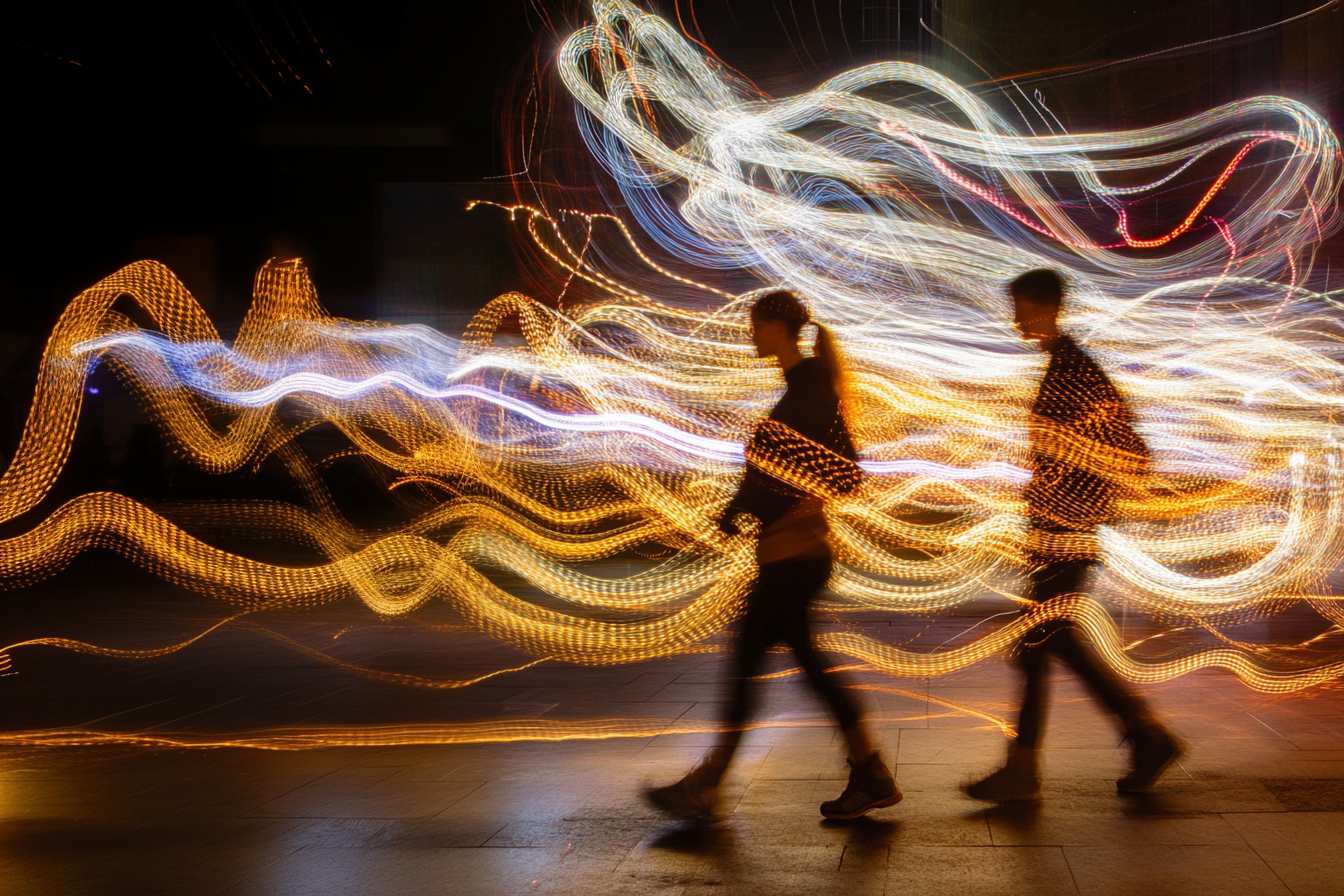
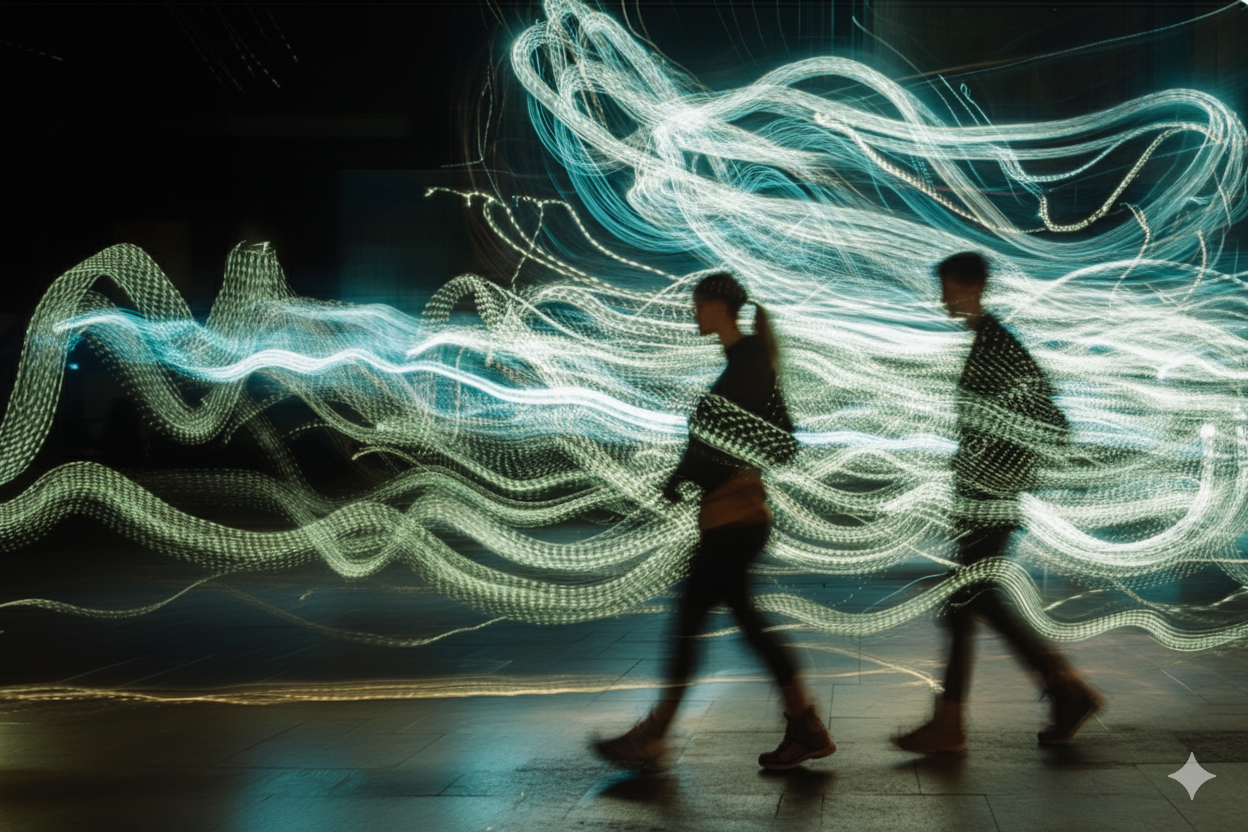
feat: add new visual impact section with second hero image
- Added new image (22849491-979d-4fb2-b7a9-9857db6dcb82.jpeg) to assets
- Created Visual Impact section between Why Do-Nation and User Types sections
- Added engaging copy about tracking giving journey
- Styled with gradient background and 3D perspective effect on hover
- Made fully responsive for mobile devices

diff --git a/src/components/WelcomePage.js b/src/components/WelcomePage.js
@@ -5,6 +5,7 @@ import styles from './WelcomePage.module.css';
 import './SharedStyles.css';
 import logoSvg from '../assets/logodark.png';
 import heroImage from '../assets/joe1980_light_trails_tracing_the_activity_of_two_young_people_b68a16e7-3e53-4c8b-b824-9edc7aa00c80_0.png';
+import impactImage from '../assets/22849491-979d-4fb2-b7a9-9857db6dcb82.jpeg';
 import { API_CONFIG } from '../config/api.config';
 import { 
   RiBarChartLine, 
@@ -263,6 +264,36 @@ const WelcomePage = () => {
             <RiRefreshLine className={styles.whyIcon} />
             <h3>Tax Ready</h3>
             <p>Generate comprehensive reports for Gift Aid claims and tax returns instantly.</p>
+          </div>
+        </div>
+      </section>
+
+      {/* Visual Impact Section */}
+      <section className={styles.visualImpact}>
+        <div className={styles.visualImpactContent}>
+          <div className={styles.visualImpactText}>
+            <h2 className={styles.visualImpactTitle}>See Your Impact Come to Life</h2>
+            <p className={styles.visualImpactDescription}>
+              Every donation creates ripples of change. Track your giving journey with beautiful visualisations
+              that show how your contributions grow into meaningful impact over time.
+            </p>
+            <div className={styles.visualImpactFeatures}>
+              <div className={styles.visualImpactFeature}>
+                <RiBarChartLine className={styles.visualImpactIcon} />
+                <span>Real-time impact tracking</span>
+              </div>
+              <div className={styles.visualImpactFeature}>
+                <RiTrophyLine className={styles.visualImpactIcon} />
+                <span>Achievement milestones</span>
+              </div>
+              <div className={styles.visualImpactFeature}>
+                <RiHeartLine className={styles.visualImpactIcon} />
+                <span>Community impact scores</span>
+              </div>
+            </div>
+          </div>
+          <div className={styles.visualImpactImageContainer}>
+            <img src={impactImage} alt="Visualise Your Impact" className={styles.visualImpactImage} />
           </div>
         </div>
       </section>

diff --git a/src/components/WelcomePage.module.css b/src/components/WelcomePage.module.css
@@ -498,6 +498,95 @@
   line-height: 1.6;
 }
 
+/* Visual Impact Section */
+.visualImpact {
+  padding: 100px 0;
+  background: linear-gradient(135deg, #f5f5fa 0%, #ffffff 100%);
+  position: relative;
+  overflow: hidden;
+}
+
+.visualImpact::before {
+  content: '';
+  position: absolute;
+  top: -50%;
+  right: -10%;
+  width: 60%;
+  height: 200%;
+  background: radial-gradient(circle, rgba(46, 143, 123, 0.05) 0%, transparent 70%);
+  pointer-events: none;
+}
+
+.visualImpactContent {
+  max-width: 1200px;
+  margin: 0 auto;
+  padding: 0 24px;
+  display: grid;
+  grid-template-columns: 1fr 1fr;
+  gap: 80px;
+  align-items: center;
+  position: relative;
+  z-index: 1;
+}
+
+.visualImpactText {
+  max-width: 500px;
+}
+
+.visualImpactTitle {
+  font-size: 42px;
+  font-weight: 700;
+  color: var(--text-primary);
+  line-height: 1.2;
+  margin-bottom: 24px;
+}
+
+.visualImpactDescription {
+  font-size: 18px;
+  color: var(--text-secondary);
+  line-height: 1.6;
+  margin-bottom: 32px;
+}
+
+.visualImpactFeatures {
+  display: flex;
+  flex-direction: column;
+  gap: 16px;
+}
+
+.visualImpactFeature {
+  display: flex;
+  align-items: center;
+  gap: 12px;
+  font-size: 16px;
+  color: var(--text-primary);
+}
+
+.visualImpactIcon {
+  font-size: 24px;
+  color: var(--primary-color);
+}
+
+.visualImpactImageContainer {
+  position: relative;
+  border-radius: 16px;
+  overflow: hidden;
+  box-shadow: 0 20px 60px rgba(0, 0, 0, 0.15);
+  transform: perspective(1000px) rotateY(-5deg);
+  transition: transform 0.3s ease;
+}
+
+.visualImpactImageContainer:hover {
+  transform: perspective(1000px) rotateY(0deg);
+}
+
+.visualImpactImage {
+  width: 100%;
+  height: auto;
+  display: block;
+  object-fit: cover;
+}
+
 /* User Types Section */
 .userTypes {
   padding: 80px 0;
@@ -948,6 +1037,21 @@
 
   .faqContainer {
     grid-template-columns: 1fr;
+  }
+
+  .visualImpactContent {
+    grid-template-columns: 1fr;
+    text-align: center;
+  }
+
+  .visualImpactText {
+    margin: 0 auto;
+  }
+
+  .visualImpactImageContainer {
+    transform: none;
+    max-width: 600px;
+    margin: 0 auto;
   }
 
   .heroContent {
